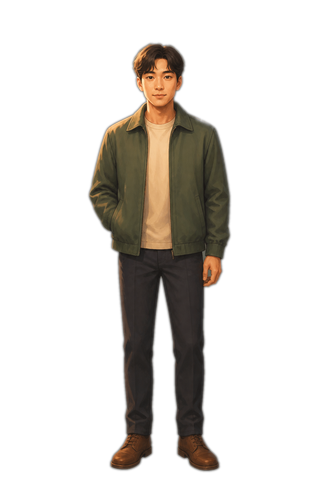
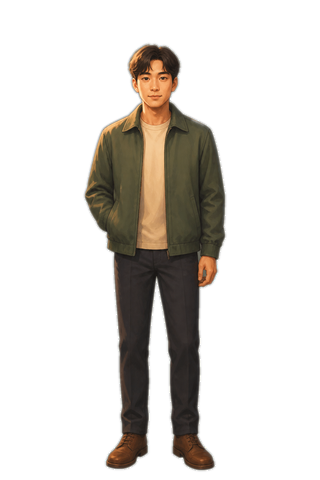
Plant 暖 and 松 as the cover pair, not sticker people.

Changed region(s): [[0.25, 0.0625, 0.7188, 1.0]]

diff --git a/godot/project.test.ts b/godot/project.test.ts
@@ -41,6 +41,9 @@ test("Valley look is one dusk illustration, not DST stickers", () => {
   assert.match(look, /tex-plaque/);
   assert.match(look, /contact\(/);
   assert.match(look, /sit_frac/);
+  assert.match(look, /person_mat/);
+  assert.match(look, /const BODY := 62/);
+  assert.match(look, /const FOOT := 0\.979/);
   assert.match(look, /name_box/);
   assert.match(look, /set_shader_parameter\("grade", 0\.0\)/);
   assert.doesNotMatch(look, /SystemFont/);
@@ -53,6 +56,13 @@ test("Valley look is one dusk illustration, not DST stickers", () => {
   const actor = readFileSync("godot/scripts/actor_view.gd", "utf8");
   assert.match(actor, /CanvasLayer/);
   assert.match(actor, /_place_name/);
+  assert.match(actor, /person_mat/);
+  assert.match(actor, /Look\.BODY/);
+  assert.match(actor, /Look\.FOOT/);
+  assert.doesNotMatch(actor, /var h := 48/);
+  const lookShot = readFileSync("godot/scripts/headless_look.gd", "utf8");
+  assert.match(lookShot, /cabin-pair/);
+  assert.match(lookShot, /set_moving/);
   const boot = readFileSync("godot/scripts/boot.gd", "utf8");
   assert.match(boot, /cover-valley/);
   assert.doesNotMatch(boot, /prop-cabin|prop-inn|Wanderer/);
@@ -76,6 +86,13 @@ test("Valley look is one dusk illustration, not DST stickers", () => {
   const paint = readFileSync("tools/paint_look.py", "utf8");
   assert.match(paint, /trim_empty_feet/);
   assert.match(paint, /def finish_sit_props/);
+  const sit = readFileSync("tools/sit_chars.py", "utf8");
+  assert.match(sit, /char-warm-ref/);
+  assert.match(sit, /FOOT_Y/);
+  assert.match(sit, /BAN/);
+  assert.doesNotMatch(sit, /SRCS\[.*= .*walk-raw/);
+  const warmWalk = readFileSync("godot/assets/art/char-warm-walk.png");
+  assert.ok(!warmWalk.includes("Wilson") && !warmWalk.includes("WANDERER"));
 });
 
 test("Godot client plays fish, mine and kitchen from the same snap", () => {

diff --git a/tools/sit_chars.py b/tools/sit_chars.py
@@ -1,0 +1,151 @@
+#!/usr/bin/env python3
+"""Put the cover-family 暖/松 on one foot line. Never read Wilson raws."""
+
+from __future__ import annotations
+
+import sys
+from pathlib import Path
+
+import numpy as np
+from PIL import Image, ImageFilter
+
+ROOT = Path(__file__).resolve().parents[1]
+sys.path.insert(0, str(ROOT / "tools"))
+
+from paint_look import ART, flood_cut, save  # noqa: E402
+
+REFS = Path("/opt/cursor/artifacts/assets")
+BOX_W, BOX_H = 320, 480
+FOOT_Y = 470
+BODY = 428
+
+# Wilson / DST scratch sheets. Do not open.
+BAN = {
+    "char-warm-walk-raw.png",
+    "char-warm-walk2-raw.png",
+    "char-pine-walk-raw.png",
+    "char-warm-chop-raw.png",
+    "char-pine-chop-raw.png",
+    "char-warm-sit-raw.png",
+    "char-pine-sit-raw.png",
+}
+
+SRCS = {
+    "char-warm.png": "char-warm-ref.png",
+    "char-pine.png": "char-pine-ref.png",
+    "char-warm-walk.png": "char-warm-walk-ref.png",
+    "char-pine-walk.png": "char-pine-walk-ref.png",
+    "char-warm-side.png": "char-warm-side-ref.png",
+    "char-pine-side.png": "char-pine-side-ref.png",
+    "char-warm-back.png": "char-warm-back-ref.png",
+    "char-pine-back.png": "char-pine-back-ref.png",
+}
+
+
+def cut_person(im: Image.Image) -> Image.Image:
+    cut = flood_cut(im.convert("RGBA"), 30.0)
+    a = np.asarray(cut.split()[-1])
+    if (a > 18).sum() < 800:
+        cut = flood_cut(im.convert("RGBA"), 42.0)
+    bbox = cut.getchannel("A").getbbox()
+    if not bbox:
+        return cut
+    pad = 10
+    x0, y0, x1, y1 = bbox
+    x0, y0 = max(0, x0 - pad), max(0, y0 - pad)
+    x1, y1 = min(cut.size[0], x1 + pad), min(cut.size[1], y1 + pad)
+    return cut.crop((x0, y0, x1, y1))
+
+
+def body_span(im: Image.Image) -> tuple[int, int]:
+    a = np.asarray(im.split()[-1])
+    rows = np.where(a.max(axis=1) > 18)[0]
+    if len(rows) == 0:
+        return 0, im.size[1] - 1
+    return int(rows[0]), int(rows[-1])
+
+
+def torso_cx(im: Image.Image) -> float:
+    a = np.asarray(im.split()[-1])
+    y0, y1 = body_span(im)
+    t0 = y0 + int((y1 - y0) * 0.32)
+    t1 = max(t0 + 4, y0 + int((y1 - y0) * 0.68))
+    wts = a[t0:t1].sum(axis=0).astype(np.float64)
+    if wts.sum() < 8:
+        return im.size[0] / 2
+    return float((np.arange(a.shape[1]) * wts).sum() / wts.sum())
+
+
+def plant(im: Image.Image, body_h: int = BODY, foot_y: int = FOOT_Y) -> Image.Image:
+    spr = cut_person(im)
+    y0, y1 = body_span(spr)
+    src_h = max(1, y1 - y0 + 1)
+    scale = body_h / src_h
+    nw = max(8, int(spr.size[0] * scale))
+    nh = max(8, int(spr.size[1] * scale))
+    spr = spr.resize((nw, nh), Image.Resampling.LANCZOS)
+    y0, y1 = body_span(spr)
+    canvas = Image.new("RGBA", (BOX_W, BOX_H), (0, 0, 0, 0))
+    dx = int(round(BOX_W / 2 - torso_cx(spr)))
+    dy = foot_y - y1
+    canvas.alpha_composite(spr, (dx, dy))
+    a = canvas.getchannel("A").filter(ImageFilter.GaussianBlur(0.7))
+    canvas.putalpha(a)
+    return canvas
+
+
+def planted_step(im: Image.Image, torso_dx: int = 0, torso_dy: int = 0) -> Image.Image:
+    """Same person, same feet. Only the coat and head take the step."""
+    arr = np.asarray(im.convert("RGBA"))
+    h, w = arr.shape[:2]
+    split = int(h * 0.58)
+    out = arr.copy()
+    band = arr[:split]
+    shifted = np.zeros_like(band)
+    src_x = np.clip(np.arange(w) - torso_dx, 0, w - 1)
+    src_y = np.clip(np.arange(split) - torso_dy, 0, split - 1)
+    shifted[:] = band[src_y][:, src_x]
+    # keep already-transparent pixels from punching holes
+    keep = band[:, :, 3] > shifted[:, :, 3]
+    shifted[keep] = band[keep]
+    out[:split] = shifted
+    return Image.fromarray(out, "RGBA")
+
+
+def main() -> None:
+    for name in BAN:
+        if name in SRCS.values():
+            raise SystemExit(f"ref map points at banned Wilson sheet {name}")
+    made: dict[str, Image.Image] = {}
+    for dest, src in SRCS.items():
+        path = REFS / src
+        if not path.exists():
+            print("skip missing", src)
+            continue
+        if src in BAN:
+            raise SystemExit(f"refused {src}")
+        sit = 0.78 if "sit" in dest else 1.0
+        made[dest] = plant(Image.open(path), int(BODY * sit))
+        save(made[dest], dest)
+    # Second walk from the same painted step, feet locked.
+    save(planted_step(made["char-warm-walk.png"], 2, -2), "char-warm-walk2.png")
+    save(planted_step(made["char-pine-walk.png"], 2, -2), "char-pine-walk2.png")
+    save(planted_step(made["char-warm-side.png"], 3, 1), "char-warm-side-walk.png")
+    save(planted_step(made["char-warm-side.png"], -3, 0), "char-warm-side-walk2.png")
+    save(planted_step(made["char-pine-side.png"], 3, 1), "char-pine-side-walk.png")
+    save(planted_step(made["char-pine-side.png"], -3, 0), "char-pine-side-walk2.png")
+    save(planted_step(made["char-warm-back.png"], 0, 1), "char-warm-back-walk.png")
+    save(planted_step(made["char-warm-back.png"], 0, 0), "char-warm-back-walk2.png")
+    save(planted_step(made["char-pine-back.png"], 0, 1), "char-pine-back-walk.png")
+    save(planted_step(made["char-pine-back.png"], 0, 0), "char-pine-back-walk2.png")
+    for who in ("warm", "pine"):
+        idle = made[f"char-{who}.png"]
+        save(idle.copy(), f"char-{who}-fish.png")
+        save(idle.copy(), f"char-{who}-chop.png")
+        save(idle.copy(), f"char-{who}-forge.png")
+        save(plant(Image.open(REFS / f"char-{who}-ref.png"), int(BODY * 0.78)), f"char-{who}-sit.png")
+    print("sat chars")
+
+
+if __name__ == "__main__":
+    main()
